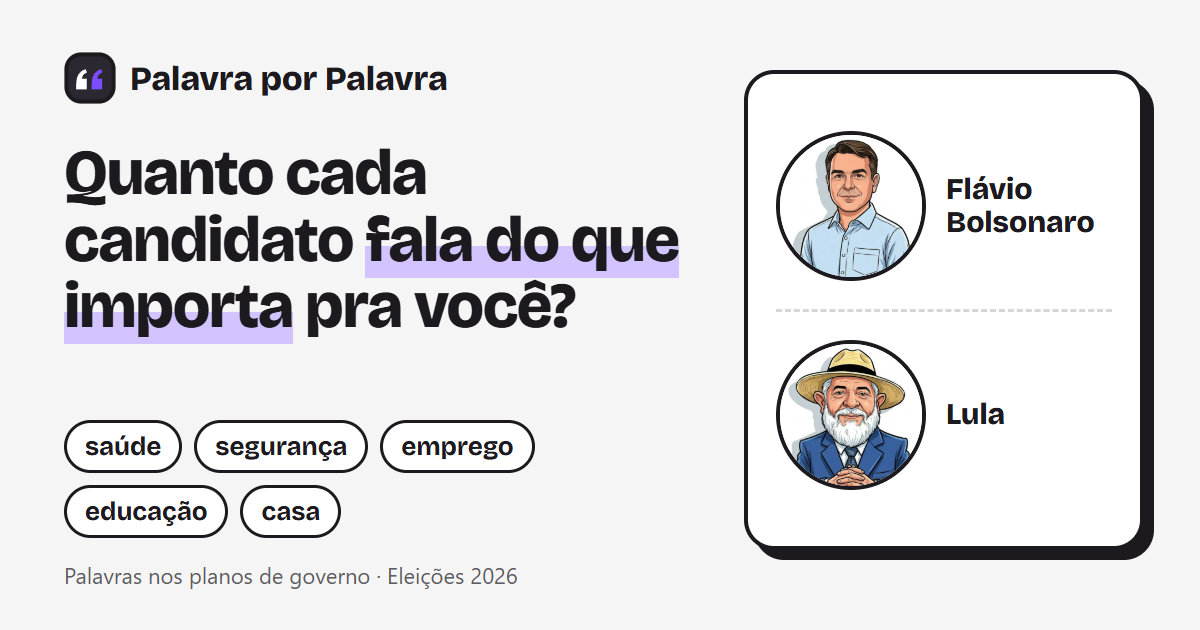
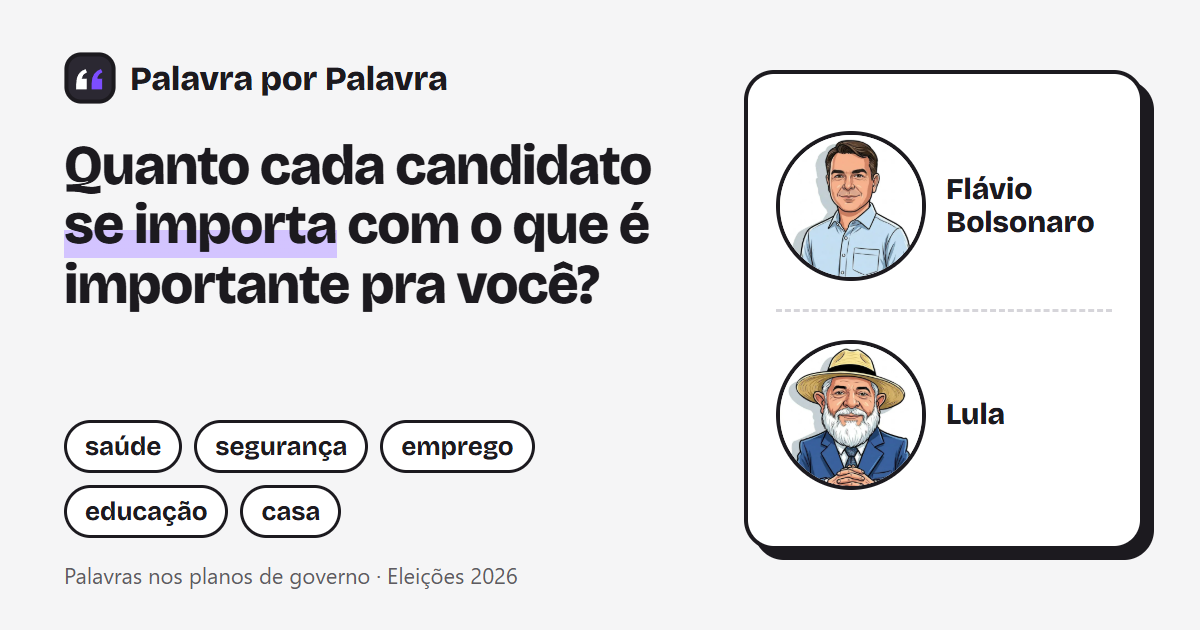
Chamada: quanto cada candidato se importa com o que é importante pra você?
Subtítulo "Conferimos palavra por palavra" e imagem de prévia refeita (a fonte não carregava no modelo).

Changed region(s): [[0.0308, 0.2111, 0.5858, 0.573]]

diff --git a/scripts/og.html b/scripts/og.html
@@ -1,11 +1,12 @@
-<!doctype html><html><head><meta charset="utf-8"><style>
+<!doctype html><html><head><meta charset="utf-8">
 <!-- Modelo da imagem de prévia (img/og.png, 1200x630). Para gerar: abrir no navegador em 1200x630 e salvar a tela. -->
+<style>
 @font-face{font-family:"Bricolage Grotesque";src:url("../fonts/bricolage-grotesque.woff2") format("woff2");font-weight:400 800}
 *{box-sizing:border-box;margin:0}
 body{width:1200px;height:630px;background:#f5f5f6;color:#1c1a1f;font-family:system-ui,"Segoe UI",sans-serif;position:relative;overflow:hidden}
 .marca{position:absolute;left:64px;top:52px;display:flex;align-items:center;gap:14px;font:800 34px "Bricolage Grotesque"}
 .marca img{width:52px;height:52px}
-h1{position:absolute;left:64px;top:140px;width:640px;font:800 64px/1.04 "Bricolage Grotesque";letter-spacing:-.02em}
+h1{position:absolute;left:64px;top:136px;width:640px;font:800 56px/1.06 "Bricolage Grotesque";letter-spacing:-.02em}
 .mt{background:linear-gradient(transparent 58%,#d3c4ff 58%)}
 .chips{position:absolute;left:64px;top:420px;width:640px;display:flex;flex-wrap:wrap;gap:12px}
 .chips span{padding:8px 18px;border:3px solid #1c1a1f;border-radius:999px;background:#fff;font:700 26px "Bricolage Grotesque"}
@@ -17,7 +18,7 @@ h1{position:absolute;left:64px;top:140px;width:640px;font:800 64px/1.04 "Bricola
 .sep{height:0;border-top:3px dashed #d6d5da}
 </style></head><body>
 <div class="marca"><img src="../img/icone.svg">Palavra por Palavra</div>
-<h1>Quanto cada candidato <span class="mt">fala do que importa</span> pra você?</h1>
+<h1>Quanto cada candidato <span class="mt">se importa</span> com o que é importante pra você?</h1>
 <div class="chips"><span>saúde</span><span>segurança</span><span>emprego</span><span>educação</span><span>casa</span></div>
 <p class="rodape">Palavras nos planos de governo · Eleições 2026</p>
 <div class="cartao">

diff --git a/js/app.js b/js/app.js
@@ -163,7 +163,6 @@ function sugerir(texto) {
 function inicio() {
   const destaques = dados.termos.filter((t) => t.destaque)
     .sort((a, b) => grupoDe(b).peso - grupoDe(a).peso);
-  const nomes = ordem.map(nome);
   // Começa com os destaques das pesquisas; se o contador responder, troca pela lista viva.
   const quentes = el('div', { class: 'chips' }, destaques.map((t) => chip(t, 'quentes')));
   medir.quentes().then((lista) => {
@@ -172,8 +171,8 @@ function inicio() {
   });
   app.replaceChildren(el('section', { class: 'tela inicio' },
     el('span', { class: 'selo' }, 'Eleições 2026 · 2º turno'),
-    el('h1', {}, 'Quanto cada candidato ', el('span', { class: 'destaque' }, 'fala do que importa'), ' pra você?'),
-    el('p', { class: 'chamada' }, `Escolha uma palavra e veja quantas vezes ${nomes[0]} e ${nomes[1]} usaram essa palavra no plano de governo.`),
+    el('h1', {}, 'Quanto cada candidato ', el('span', { class: 'destaque' }, 'se importa'), ' com o que é importante pra você?'),
+    el('p', { class: 'chamada' }, 'Conferimos ', el('em', {}, 'palavra por palavra'), '.'),
     campoDeBusca(),
     compromisso(),
     el('div', { class: 'bloco' },

diff --git a/index.html b/index.html
@@ -6,7 +6,7 @@
   <title>Palavra por Palavra · Eleições 2026</title>
   <meta name="description" content="Escolha uma palavra e veja quantas vezes Lula e Flávio Bolsonaro usaram essa palavra no plano de governo, com os trechos para conferir.">
   <meta property="og:type" content="website">
-  <meta property="og:title" content="Palavra por Palavra: quanto cada candidato fala do que importa pra você?">
+  <meta property="og:title" content="Palavra por Palavra: quanto cada candidato se importa com o que é importante pra você?">
   <meta property="og:description" content="Escolha uma palavra e veja quantas vezes cada candidato usou essa palavra no plano de governo.">
   <meta property="og:image" content="https://palavraporpalavra.online/img/og.png?v=4.4">
   <meta property="og:image:width" content="1200">
